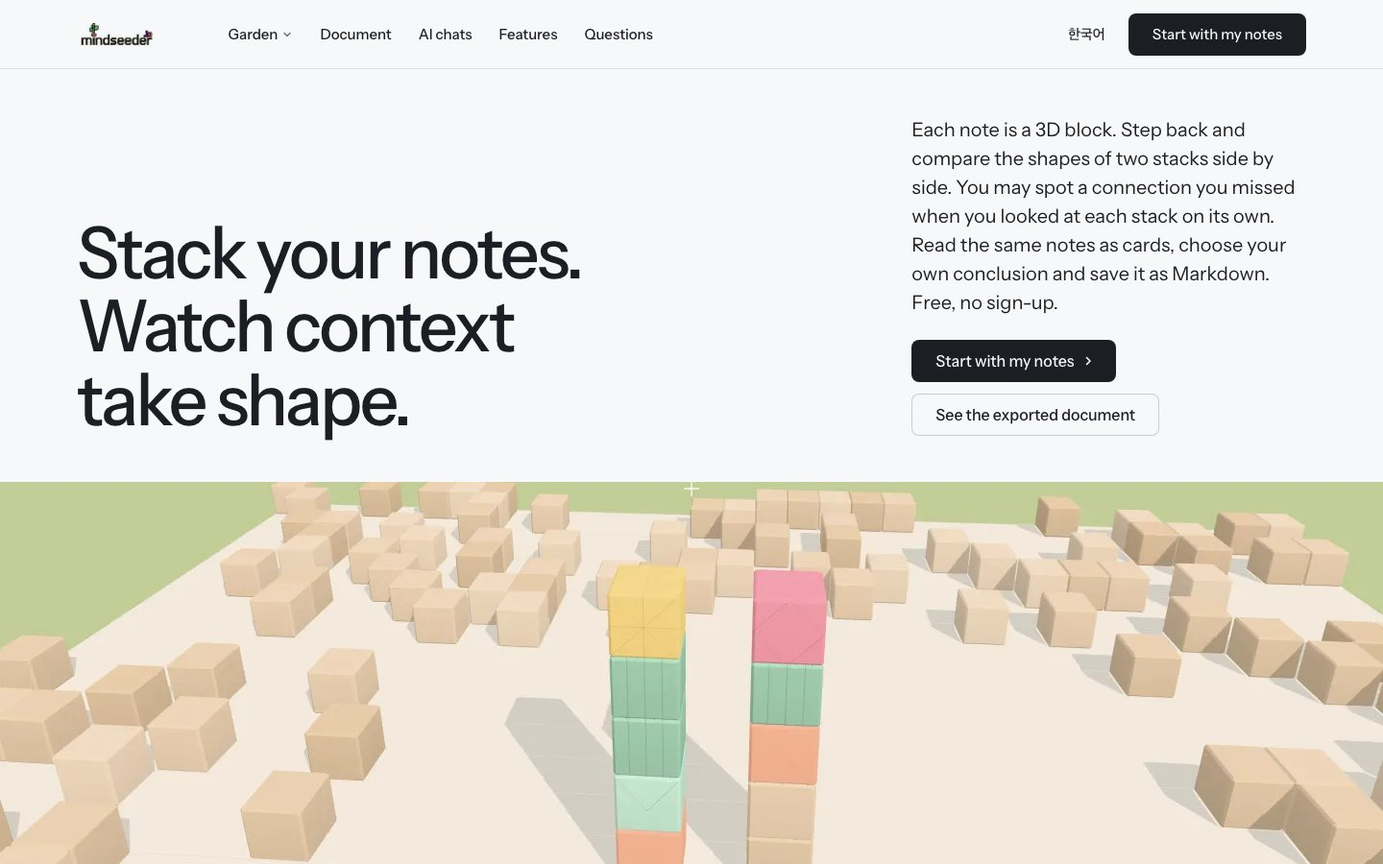
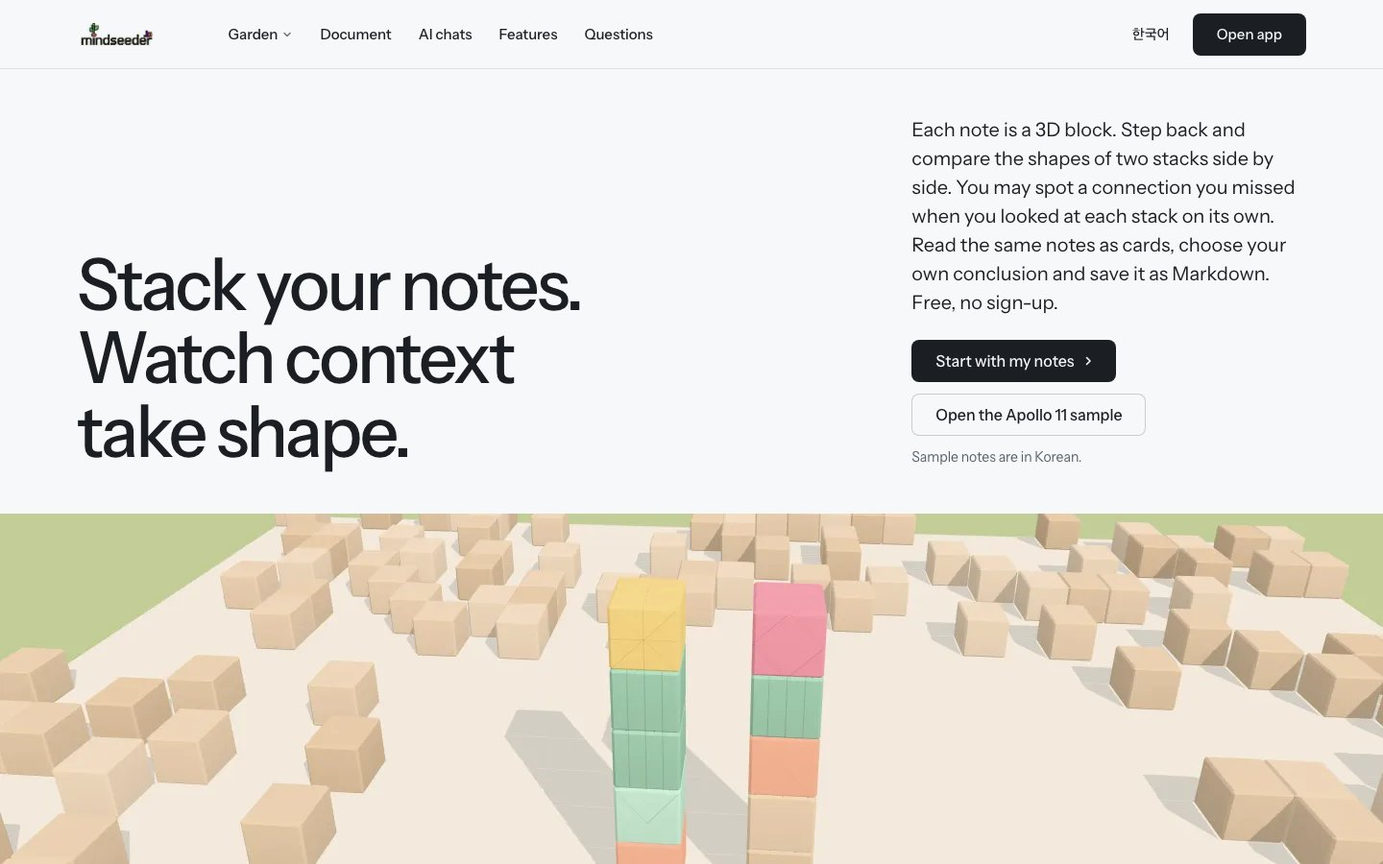
feat: clearer way into the app (user 11/21 persona review) — header button says Open app, the hero's second button opens the Apollo 11 sample, the 3D garden menu card opens the app instead of jumping to the top, every app link carries the page language (?lang=) and keeps ms_internal for internal che

diff --git a/ko/index.html b/ko/index.html
@@ -159,19 +159,19 @@
         <a class="nav__link" href="#garden">정원 <svg class="chev" viewBox="0 0 12 12" aria-hidden="true"><path d="M3 4.5l3 3 3-3" fill="none" stroke="currentColor" stroke-width="1.5" stroke-linecap="round" stroke-linejoin="round"/></svg></a>
         <div class="nav__menu">
           <div class="wrap grid">
-            <a class="menu-card span-4" href="#top">
+            <a class="menu-card span-4" href="https://app.mindseeder.io/?sample=apollo11-1202&lang=ko" data-app-link>
               <div class="panel"><img class="frame__img" src="../img/garden-3d-1440.webp" alt="" loading="lazy"></div>
-              <span class="t-card">3D 정원</span>
+              <span class="t-card">앱에서 3D 정원 보기</span>
               <span class="t-small muted">나무로 쌓인 노트 사이를 걸어 다닙니다</span>
             </a>
             <a class="menu-card span-4" href="#garden">
               <div class="panel"><img class="frame__img" src="../img/office-trees-ko.webp" alt="" loading="lazy" style="object-position: 0 50%"></div>
-              <span class="t-card">Office 보기</span>
+              <span class="t-card">카드 보기 소개</span>
               <span class="t-small muted">같은 노트를 나무별 카드로 읽습니다</span>
             </a>
             <a class="menu-card span-4" href="#features">
               <div class="panel"><img class="frame__img" src="../img/basket-ko.webp" alt="" loading="lazy" style="object-position: 50% 60%"></div>
-              <span class="t-card">수확 바구니</span>
+              <span class="t-card">수확 바구니 소개</span>
               <span class="t-small muted">결론을 모아 문서로 내보냅니다</span>
             </a>
           </div>
@@ -184,7 +184,7 @@
     </nav>
     <div class="nav__actions">
       <a class="nav__link" href="../" hreflang="en" lang="en" data-lang-switch>English</a>
-      <a class="btn btn--primary" href="https://app.mindseeder.io/" data-app-link>내 메모로 시작하기</a>
+      <a class="btn btn--primary" href="https://app.mindseeder.io/?lang=ko" data-app-link>앱 열기</a>
     </div>
     <button class="nav__toggle" type="button" aria-expanded="false" aria-label="메뉴">
       <svg width="18" height="18" viewBox="0 0 18 18" aria-hidden="true"><path d="M2 5h14M2 13h14" stroke="currentColor" stroke-width="1.6" stroke-linecap="round"/></svg>
@@ -199,7 +199,7 @@
           <h1 id="hero-h">노트를 쌓으면 맥락이 보입니다</h1>
           <p class="hero__lead">노트 한 장이 3D 블록 하나입니다. 한 걸음 물러서서 두 탑의 모양을 함께 보면, 따로 볼 때 놓쳤던 연결이 눈에 들어오기도 합니다. 같은 노트를 카드로도 읽고, 결론은 직접 골라 Markdown으로 저장합니다. 무료이고, 가입 없이 시작합니다.</p>
         </div>
-        <div class="btn-row"><a class="btn btn--primary" href="https://app.mindseeder.io/" data-app-link>내 메모로 시작하기<svg class="m-arrow" viewBox="0 0 12 12" aria-hidden="true"><path class="m-arrow__stem" d="M1 6h8"/><path class="m-arrow__head" d="M4.5 2.5 8 6l-3.5 3.5"/></svg></a><a class="btn btn--secondary" href="#document">내보낸 문서 보기</a></div>
+        <div class="btn-row"><a class="btn btn--primary" href="https://app.mindseeder.io/?lang=ko" data-app-link>내 메모로 시작하기<svg class="m-arrow" viewBox="0 0 12 12" aria-hidden="true"><path class="m-arrow__stem" d="M1 6h8"/><path class="m-arrow__head" d="M4.5 2.5 8 6l-3.5 3.5"/></svg></a><a class="btn btn--secondary" href="https://app.mindseeder.io/?sample=apollo11-1202&lang=ko" data-app-link>아폴로 11 샘플 열기</a></div>
       </div>
       <div class="hero__stage">
         <img src="../img/garden-3d-1440.webp" srcset="../img/garden-3d-1440.webp 1440w, ../img/garden-3d-2880.webp 2880w" sizes="(max-width: 639px) 930px, 100vw" width="1440" height="590" alt="마인드시더 3D 정원: 모래색 지형 블록 사이에 색 노트 블록이 쌓인 나무 두 그루와, 그 앞의 분홍색 열매 블록" fetchpriority="high" data-source="client" data-subject="mindseeder 3D garden screenshot">
@@ -416,7 +416,7 @@
         <h2 id="close-h">가지고 있는 메모부터 심어 보세요</h2>
         <p>가입 없이 시작합니다. 동기화하기 전까지 노트는 이 브라우저에 있습니다.</p>
       </div>
-      <a class="btn btn--primary btn--xl btn--wide" href="https://app.mindseeder.io/" data-app-link>내 메모로 시작하기<svg class="m-arrow" viewBox="0 0 12 12" aria-hidden="true"><path class="m-arrow__stem" d="M1 6h8"/><path class="m-arrow__head" d="M4.5 2.5 8 6l-3.5 3.5"/></svg></a>
+      <a class="btn btn--primary btn--xl btn--wide" href="https://app.mindseeder.io/?lang=ko" data-app-link>내 메모로 시작하기<svg class="m-arrow" viewBox="0 0 12 12" aria-hidden="true"><path class="m-arrow__stem" d="M1 6h8"/><path class="m-arrow__head" d="M4.5 2.5 8 6l-3.5 3.5"/></svg></a>
     </div>
     <div class="closing__links">
       <div class="grid">
@@ -440,7 +440,7 @@
   (function () {
     try {
       var q = new URLSearchParams(location.search), keep = new URLSearchParams();
-      q.forEach(function (v, k) { if (/^utm_(source|medium|campaign)$/.test(k)) keep.set(k, v); });
+      q.forEach(function (v, k) { if (/^utm_(source|medium|campaign)$/.test(k) || k === 'ms_internal') keep.set(k, v); });
       if (![...keep.keys()].length) return;
       document.querySelectorAll('a[data-app-link]').forEach(function (a) { var u = new URL(a.href); keep.forEach(function (v, k) { u.searchParams.set(k, v); }); a.href = u.toString(); });
     } catch (e) {}

diff --git a/index.html b/index.html
@@ -159,19 +159,19 @@
         <a class="nav__link" href="#garden">Garden <svg class="chev" viewBox="0 0 12 12" aria-hidden="true"><path d="M3 4.5l3 3 3-3" fill="none" stroke="currentColor" stroke-width="1.5" stroke-linecap="round" stroke-linejoin="round"/></svg></a>
         <div class="nav__menu">
           <div class="wrap grid">
-            <a class="menu-card span-4" href="#top">
+            <a class="menu-card span-4" href="https://app.mindseeder.io/?sample=apollo11-1202&lang=en" data-app-link>
               <div class="panel"><img class="frame__img" src="img/garden-3d-1440.webp" alt="" loading="lazy"></div>
-              <span class="t-card">3D garden</span>
+              <span class="t-card">Explore a 3D garden in the app</span>
               <span class="t-small muted">Walk among your notes, stacked as trees</span>
             </a>
             <a class="menu-card span-4" href="#garden">
               <div class="panel"><img class="frame__img" src="img/office-trees-en.webp" alt="" loading="lazy" style="object-position: 0 50%"></div>
-              <span class="t-card">Office view</span>
+              <span class="t-card">About card view</span>
               <span class="t-small muted">The same notes as cards, tree by tree</span>
             </a>
             <a class="menu-card span-4" href="#features">
               <div class="panel"><img class="frame__img" src="img/basket-en.webp" alt="" loading="lazy" style="object-position: 50% 60%"></div>
-              <span class="t-card">Harvest basket</span>
+              <span class="t-card">About the harvest basket</span>
               <span class="t-small muted">Collect conclusions and export them</span>
             </a>
           </div>
@@ -184,7 +184,7 @@
     </nav>
     <div class="nav__actions">
       <a class="nav__link" href="ko/" hreflang="ko" lang="ko" data-lang-switch>한국어</a>
-      <a class="btn btn--primary" href="https://app.mindseeder.io/" data-app-link>Start with my notes</a>
+      <a class="btn btn--primary" href="https://app.mindseeder.io/?lang=en" data-app-link>Open app</a>
     </div>
     <button class="nav__toggle" type="button" aria-expanded="false" aria-label="Menu">
       <svg width="18" height="18" viewBox="0 0 18 18" aria-hidden="true"><path d="M2 5h14M2 13h14" stroke="currentColor" stroke-width="1.6" stroke-linecap="round"/></svg>
@@ -199,7 +199,7 @@
           <h1 id="hero-h">Stack your notes. Watch context take shape.</h1>
           <p class="hero__lead">Each note is a 3D block. Step back and compare the shapes of two stacks side by side. You may spot a connection you missed when you looked at each stack on its own. Read the same notes as cards, choose your own conclusion and save it as Markdown. Free, no sign-up.</p>
         </div>
-        <div class="btn-row"><a class="btn btn--primary" href="https://app.mindseeder.io/" data-app-link>Start with my notes<svg class="m-arrow" viewBox="0 0 12 12" aria-hidden="true"><path class="m-arrow__stem" d="M1 6h8"/><path class="m-arrow__head" d="M4.5 2.5 8 6l-3.5 3.5"/></svg></a><a class="btn btn--secondary" href="#document">See the exported document</a></div>
+        <div class="btn-row"><a class="btn btn--primary" href="https://app.mindseeder.io/?lang=en" data-app-link>Start with my notes<svg class="m-arrow" viewBox="0 0 12 12" aria-hidden="true"><path class="m-arrow__stem" d="M1 6h8"/><path class="m-arrow__head" d="M4.5 2.5 8 6l-3.5 3.5"/></svg></a><a class="btn btn--secondary" href="https://app.mindseeder.io/?sample=apollo11-1202&lang=en" data-app-link>Open the Apollo 11 sample</a><p class="t-small muted" style="flex-basis: 100%; margin: 0">Sample notes are in Korean.</p></div>
       </div>
       <div class="hero__stage">
         <img src="img/garden-3d-1440.webp" srcset="img/garden-3d-1440.webp 1440w, img/garden-3d-2880.webp 2880w" sizes="(max-width: 639px) 930px, 100vw" width="1440" height="590" alt="The mindseeder 3D garden: two stacked trees of coloured note blocks among sand-coloured terrain blocks, with a pink fruit block in front of them" fetchpriority="high" data-source="client" data-subject="mindseeder 3D garden screenshot">
@@ -416,7 +416,7 @@
         <h2 id="close-h">Start with notes you already have</h2>
         <p>No sign-up. Notes stay in this browser until you sync.</p>
       </div>
-      <a class="btn btn--primary btn--xl btn--wide" href="https://app.mindseeder.io/" data-app-link>Start with my notes<svg class="m-arrow" viewBox="0 0 12 12" aria-hidden="true"><path class="m-arrow__stem" d="M1 6h8"/><path class="m-arrow__head" d="M4.5 2.5 8 6l-3.5 3.5"/></svg></a>
+      <a class="btn btn--primary btn--xl btn--wide" href="https://app.mindseeder.io/?lang=en" data-app-link>Start with my notes<svg class="m-arrow" viewBox="0 0 12 12" aria-hidden="true"><path class="m-arrow__stem" d="M1 6h8"/><path class="m-arrow__head" d="M4.5 2.5 8 6l-3.5 3.5"/></svg></a>
     </div>
     <div class="closing__links">
       <div class="grid">
@@ -440,7 +440,7 @@
   (function () {
     try {
       var q = new URLSearchParams(location.search), keep = new URLSearchParams();
-      q.forEach(function (v, k) { if (/^utm_(source|medium|campaign)$/.test(k)) keep.set(k, v); });
+      q.forEach(function (v, k) { if (/^utm_(source|medium|campaign)$/.test(k) || k === 'ms_internal') keep.set(k, v); });
       if (![...keep.keys()].length) return;
       document.querySelectorAll('a[data-app-link]').forEach(function (a) { var u = new URL(a.href); keep.forEach(function (v, k) { u.searchParams.set(k, v); }); a.href = u.toString(); });
     } catch (e) {}

diff --git a/src/page.html b/src/page.html
@@ -159,7 +159,7 @@
         <a class="nav__link" href="#garden">{{nav_garden}} <svg class="chev" viewBox="0 0 12 12" aria-hidden="true"><path d="M3 4.5l3 3 3-3" fill="none" stroke="currentColor" stroke-width="1.5" stroke-linecap="round" stroke-linejoin="round"/></svg></a>
         <div class="nav__menu">
           <div class="wrap grid">
-            <a class="menu-card span-4" href="#top">
+            <a class="menu-card span-4" href="{{app_sample_url}}" data-app-link>
               <div class="panel"><img class="frame__img" src="{{root}}img/garden-3d-1440.webp" alt="" loading="lazy"></div>
               <span class="t-card">{{mc1_t}}</span>
               <span class="t-small muted">{{mc1_l}}</span>
@@ -184,7 +184,7 @@
     </nav>
     <div class="nav__actions">
       <a class="nav__link" href="{{other_href}}" hreflang="{{other_lang}}" lang="{{other_lang}}" data-lang-switch>{{other_label}}</a>
-      <a class="btn btn--primary" href="{{app_url}}" data-app-link>{{cta}}</a>
+      <a class="btn btn--primary" href="{{app_url}}" data-app-link>{{cta_nav}}</a>
     </div>
     <button class="nav__toggle" type="button" aria-expanded="false" aria-label="{{menu_label}}">
       <svg width="18" height="18" viewBox="0 0 18 18" aria-hidden="true"><path d="M2 5h14M2 13h14" stroke="currentColor" stroke-width="1.6" stroke-linecap="round"/></svg>
@@ -199,7 +199,7 @@
           <h1 id="hero-h">{{h1}}</h1>
           <p class="hero__lead">{{lead}}</p>
         </div>
-        <div class="btn-row"><a class="btn btn--primary" href="{{app_url}}" data-app-link>{{cta}}<svg class="m-arrow" viewBox="0 0 12 12" aria-hidden="true"><path class="m-arrow__stem" d="M1 6h8"/><path class="m-arrow__head" d="M4.5 2.5 8 6l-3.5 3.5"/></svg></a><a class="btn btn--secondary" href="#document">{{cta2}}</a></div>
+        <div class="btn-row"><a class="btn btn--primary" href="{{app_url}}" data-app-link>{{cta}}<svg class="m-arrow" viewBox="0 0 12 12" aria-hidden="true"><path class="m-arrow__stem" d="M1 6h8"/><path class="m-arrow__head" d="M4.5 2.5 8 6l-3.5 3.5"/></svg></a><a class="btn btn--secondary" href="{{app_sample_url}}" data-app-link>{{cta_sample}}</a>{{cta_sample_note_html}}</div>
       </div>
       <div class="hero__stage">
         <img src="{{root}}img/garden-3d-1440.webp" srcset="{{root}}img/garden-3d-1440.webp 1440w, {{root}}img/garden-3d-2880.webp 2880w" sizes="(max-width: 639px) 930px, 100vw" width="1440" height="590" alt="{{hero_alt}}" fetchpriority="high" data-source="client" data-subject="mindseeder 3D garden screenshot">
@@ -423,7 +423,7 @@
   (function () {
     try {
       var q = new URLSearchParams(location.search), keep = new URLSearchParams();
-      q.forEach(function (v, k) { if (/^utm_(source|medium|campaign)$/.test(k)) keep.set(k, v); });
+      q.forEach(function (v, k) { if (/^utm_(source|medium|campaign)$/.test(k) || k === 'ms_internal') keep.set(k, v); });
       if (![...keep.keys()].length) return;
       document.querySelectorAll('a[data-app-link]').forEach(function (a) { var u = new URL(a.href); keep.forEach(function (v, k) { u.searchParams.set(k, v); }); a.href = u.toString(); });
     } catch (e) {}

diff --git a/gardens/hokusai/index.html b/gardens/hokusai/index.html
@@ -143,7 +143,7 @@ footer.ed-foot a { color: inherit; }
     </nav>
     <div class="nav__actions">
       <a class="nav__link" href="../../ko/gardens/hokusai/" hreflang="ko" lang="ko" data-lang-switch>한국어</a>
-      <a class="btn btn--primary" href="https://app.mindseeder.io/?sample=hokusai-fuji&amp;utm_source=mindseeder.io&amp;utm_medium=edition&amp;utm_campaign=hokusai-1" data-app-link>Open this garden</a>
+      <a class="btn btn--primary" href="https://app.mindseeder.io/?sample=hokusai-fuji&amp;lang=en&amp;utm_source=mindseeder.io&amp;utm_medium=edition&amp;utm_campaign=hokusai-1" data-app-link>Open this garden</a>
     </div>
     <button class="nav__toggle" type="button" aria-expanded="false" aria-label="Menu">
       <svg width="18" height="18" viewBox="0 0 18 18" aria-hidden="true"><path d="M2 5h14M2 13h14" stroke="currentColor" stroke-width="1.6" stroke-linecap="round"/></svg>
@@ -261,7 +261,7 @@ footer.ed-foot a { color: inherit; }
           <p class="big">Move between the two trees yourself.</p>
           <p>No account needed. On a first visit, choose ‘Start on this device without an account’, then ‘Open’ in the sample window. The notes are in Korean.</p>
         </div>
-        <a class="btn btn--primary" href="https://app.mindseeder.io/?sample=hokusai-fuji&amp;utm_source=mindseeder.io&amp;utm_medium=edition&amp;utm_campaign=hokusai-1" data-app-link>Open this garden in the app</a>
+        <a class="btn btn--primary" href="https://app.mindseeder.io/?sample=hokusai-fuji&amp;lang=en&amp;utm_source=mindseeder.io&amp;utm_medium=edition&amp;utm_campaign=hokusai-1" data-app-link>Open this garden in the app</a>
       </div>
     </section>
 
@@ -285,7 +285,7 @@ footer.ed-foot a { color: inherit; }
 
     <section aria-labelledby="next-h">
       <h2 id="next-h">Read next</h2>
-      <a class="next" href="https://app.mindseeder.io/?sample=snow-cholera&amp;utm_source=mindseeder.io&amp;utm_medium=edition&amp;utm_campaign=hokusai-1" data-app-link>
+      <a class="next" href="https://app.mindseeder.io/?sample=snow-cholera&amp;lang=en&amp;utm_source=mindseeder.io&amp;utm_medium=edition&amp;utm_campaign=hokusai-1" data-app-link>
         <span class="label">What you miss when you only look at where things are</span>
         <h3>John Snow — the pump handle and two water companies</h3>
         <p>With Hokusai, we looked at where the mountain sits in the picture. In John Snow&#x27;s 1855 record, you first see where deaths gathered around a pump in Soho, then open a different relation: which water supply split the houses on the same streets. The notes are in Korean.</p>

diff --git a/ko/gardens/hokusai/index.html b/ko/gardens/hokusai/index.html
@@ -143,7 +143,7 @@ footer.ed-foot a { color: inherit; }
     </nav>
     <div class="nav__actions">
       <a class="nav__link" href="../../../gardens/hokusai/" hreflang="en" lang="en" data-lang-switch>English</a>
-      <a class="btn btn--primary" href="https://app.mindseeder.io/?sample=hokusai-fuji&amp;utm_source=mindseeder.io&amp;utm_medium=edition&amp;utm_campaign=hokusai-1" data-app-link>이 정원 열기</a>
+      <a class="btn btn--primary" href="https://app.mindseeder.io/?sample=hokusai-fuji&amp;lang=ko&amp;utm_source=mindseeder.io&amp;utm_medium=edition&amp;utm_campaign=hokusai-1" data-app-link>이 정원 열기</a>
     </div>
     <button class="nav__toggle" type="button" aria-expanded="false" aria-label="메뉴">
       <svg width="18" height="18" viewBox="0 0 18 18" aria-hidden="true"><path d="M2 5h14M2 13h14" stroke="currentColor" stroke-width="1.6" stroke-linecap="round"/></svg>
@@ -261,7 +261,7 @@ footer.ed-foot a { color: inherit; }
           <p class="big">두 나무 사이를 직접 오가 보세요.</p>
           <p>가입하지 않아도 됩니다. 처음이면 ‘가입 없이 이 기기에서 시작’을, 이어서 샘플 창의 ‘열기’를 누르세요.</p>
         </div>
-        <a class="btn btn--primary" href="https://app.mindseeder.io/?sample=hokusai-fuji&amp;utm_source=mindseeder.io&amp;utm_medium=edition&amp;utm_campaign=hokusai-1" data-app-link>앱에서 이 정원 열기</a>
+        <a class="btn btn--primary" href="https://app.mindseeder.io/?sample=hokusai-fuji&amp;lang=ko&amp;utm_source=mindseeder.io&amp;utm_medium=edition&amp;utm_campaign=hokusai-1" data-app-link>앱에서 이 정원 열기</a>
       </div>
     </section>
 
@@ -285,7 +285,7 @@ footer.ed-foot a { color: inherit; }
 
     <section aria-labelledby="next-h">
       <h2 id="next-h">다음 읽기</h2>
-      <a class="next" href="https://app.mindseeder.io/?sample=snow-cholera&amp;utm_source=mindseeder.io&amp;utm_medium=edition&amp;utm_campaign=hokusai-1" data-app-link>
+      <a class="next" href="https://app.mindseeder.io/?sample=snow-cholera&amp;lang=ko&amp;utm_source=mindseeder.io&amp;utm_medium=edition&amp;utm_campaign=hokusai-1" data-app-link>
         <span class="label">장소만 보면 놓치는 것</span>
         <h3>존 스노 — 펌프 손잡이와 두 수도회사</h3>
         <p>호쿠사이에서는 산이 화면의 어디에 놓였는지 봤습니다. 존 스노의 1855년 기록에서는 소호의 펌프 둘레에 사망이 모인 자리를 본 뒤, 같은 거리의 집들을 가른 물 공급이라는 다른 관계를 엽니다.</p>

diff --git a/guide/index.html b/guide/index.html
@@ -81,7 +81,7 @@ footer.guide-foot a { color: inherit; }
     </nav>
     <div class="nav__actions">
       <a class="nav__link" href="../ko/guide/" hreflang="ko" lang="ko" data-lang-switch>한국어</a>
-      <a class="btn btn--primary" href="https://app.mindseeder.io/" data-app-link>Start with my notes</a>
+      <a class="btn btn--primary" href="https://app.mindseeder.io/?lang=en" data-app-link>Start with my notes</a>
     </div>
     <button class="nav__toggle" type="button" aria-expanded="false" aria-label="Menu">
       <svg width="18" height="18" viewBox="0 0 18 18" aria-hidden="true"><path d="M2 5h14M2 13h14" stroke="currentColor" stroke-width="1.6" stroke-linecap="round"/></svg>
@@ -255,7 +255,7 @@ Finish with one line confirming that you compared the output against the origina
 
     <div class="close">
       <p>mindseeder exports the conclusion you chose as Markdown.</p>
-      <a class="btn btn--primary" href="https://app.mindseeder.io/" data-app-link>Start with my notes</a>
+      <a class="btn btn--primary" href="https://app.mindseeder.io/?lang=en" data-app-link>Start with my notes</a>
     </div>
   </div></article>
 </main>

diff --git a/ko/guide/index.html b/ko/guide/index.html
@@ -81,7 +81,7 @@ footer.guide-foot a { color: inherit; }
     </nav>
     <div class="nav__actions">
       <a class="nav__link" href="../../guide/" hreflang="en" lang="en" data-lang-switch>English</a>
-      <a class="btn btn--primary" href="https://app.mindseeder.io/" data-app-link>내 메모로 시작하기</a>
+      <a class="btn btn--primary" href="https://app.mindseeder.io/?lang=ko" data-app-link>내 메모로 시작하기</a>
     </div>
     <button class="nav__toggle" type="button" aria-expanded="false" aria-label="메뉴">
       <svg width="18" height="18" viewBox="0 0 18 18" aria-hidden="true"><path d="M2 5h14M2 13h14" stroke="currentColor" stroke-width="1.6" stroke-linecap="round"/></svg>
@@ -255,7 +255,7 @@ footer.guide-foot a { color: inherit; }
 
     <div class="close">
       <p>마인드시더는 고른 결론을 Markdown으로 내보냅니다.</p>
-      <a class="btn btn--primary" href="https://app.mindseeder.io/" data-app-link>내 메모로 시작하기</a>
+      <a class="btn btn--primary" href="https://app.mindseeder.io/?lang=ko" data-app-link>내 메모로 시작하기</a>
     </div>
   </div></article>
 </main>

diff --git a/src/guide.html b/src/guide.html
@@ -81,7 +81,7 @@ footer.guide-foot a { color: inherit; }
     </nav>
     <div class="nav__actions">
       <a class="nav__link" href="{{other_href}}" hreflang="{{other_lang}}" lang="{{other_lang}}" data-lang-switch>{{other_label}}</a>
-      <a class="btn btn--primary" href="https://app.mindseeder.io/" data-app-link>{{cta}}</a>
+      <a class="btn btn--primary" href="{{app_url}}" data-app-link>{{cta}}</a>
     </div>
     <button class="nav__toggle" type="button" aria-expanded="false" aria-label="{{menu_label}}">
       <svg width="18" height="18" viewBox="0 0 18 18" aria-hidden="true"><path d="M2 5h14M2 13h14" stroke="currentColor" stroke-width="1.6" stroke-linecap="round"/></svg>
@@ -124,7 +124,7 @@ footer.guide-foot a { color: inherit; }
 
     <div class="close">
       <p>{{lead_short}}</p>
-      <a class="btn btn--primary" href="https://app.mindseeder.io/" data-app-link>{{cta}}</a>
+      <a class="btn btn--primary" href="{{app_url}}" data-app-link>{{cta}}</a>
     </div>
   </div></article>
 </main>

diff --git a/src/build.py b/src/build.py
@@ -48,7 +48,10 @@ def build(lang: str) -> None:
     ]
     out = TPL
     special = {
-        'canonical': canonical, 'app_url': APP, 'guide_href': 'guide/', 'font_href': FONTS[lang], 'font_extra': ', "Gothic A1"' if lang == 'ko' else '',
+        'canonical': canonical, 'app_url': f'{APP}?lang={lang}', 'guide_href': 'guide/',
+        # 첫 화면 보조 버튼·메뉴 첫 카드: 파일럿 예시(아폴로)로 바로 — 앱은 lang으로 첫 화면 언어를, sample로 그 편을 맨 위에 둔다(사용자 11/21 진입 개선)
+        'app_sample_url': f'{APP}?sample=apollo11-1202&lang={lang}',
+        'cta_sample_note_html': f'<p class="t-small muted" style="flex-basis: 100%; margin: 0">{esc(s["cta_sample_note"])}</p>' if s.get('cta_sample_note') else '', 'font_href': FONTS[lang], 'font_extra': ', "Gothic A1"' if lang == 'ko' else '',
         'rows_html': '\n'.join(rows), 'files_html': '\n'.join(files), 'faq_html': '\n'.join(faq),
         'jsonld': json.dumps(jsonld, ensure_ascii=False).replace('</', '<\\/'),
         'lang_redirect': '',
@@ -87,7 +90,7 @@ def build_guide(lang: str) -> None:
     jsonld = {'@context': 'https://schema.org', '@type': 'HowTo', 'name': s['h1'], 'description': s['description'], 'inLanguage': lang,
               'url': canonical, 'step': [{'@type': 'HowToStep', 'position': i + 1, 'name': n, 'text': t} for i, (n, t) in
                                          enumerate([(s['s1_h'], s['s1']), (s['s2_h'], s['s2']), (s['s3_h'], s['s3']), (s['s4_h'], ' '.join(s['tips']))])]}
-    special = {'canonical': canonical, 'font_href': FONTS[lang], 'font_extra': ', "Gothic A1"' if lang == 'ko' else '',
+    special = {'canonical': canonical, 'app_url': f'{APP}?lang={lang}', 'font_href': FONTS[lang], 'font_extra': ', "Gothic A1"' if lang == 'ko' else '',
                'rows_html': rows, 'prompts_html': '\n'.join(prompts), 'tips_html': tips, 'sources_html': sources,
                'jsonld': json.dumps(jsonld, ensure_ascii=False).replace('</', '<\\/'), 'lead_short': s['lead'].split('. ')[0] + '.' if lang == 'en' else s['lead'].split('. ')[0] + '.'}
     def rep(m):
@@ -109,8 +112,8 @@ def build_edition(lang: str, slug: str) -> None:
     tpl = (ROOT / 'src/edition.html').read_text()
     canonical = 'https://mindseeder.io/' + s['path']
     utm = 'utm_source=mindseeder.io&utm_medium=edition&utm_campaign=' + s.get('campaign', f'{slug}-1')
-    app_href = f'{APP}?sample={s["sample"]}&{utm}'
-    next_href = f'{APP}?sample={s["next_sample"]}&{utm}'
+    app_href = f'{APP}?sample={s["sample"]}&lang={lang}&{utm}'
+    next_href = f'{APP}?sample={s["next_sample"]}&lang={lang}&{utm}'
     picks = '\n'.join(f'          <label><input type="radio" name="first-look" value="{i}">{esc(p)}</label>' for i, p in enumerate(s['picks']))
     do = '\n'.join(f'        <li>{esc(t)}</li>' for t in s['do'])
     sources = '\n'.join(f'        <li>{esc(t)}<span class="links">' + ''.join(f'<a class="link" href="{esc(u)}" rel="noopener">{esc(n)}</a>' for n, u in links) + '</span></li>'
@@ -125,7 +128,7 @@ def build_edition(lang: str, slug: str) -> None:
               'publisher': {'@type': 'Organization', 'name': 'mindseeder', 'url': 'https://mindseeder.io/'},
               'about': [art('Under the Wave off Kanagawa (The Great Wave)', 'https://www.metmuseum.org/art/collection/search/45434', 'ca. 1830–32'),
                         art('South Wind, Clear Sky (Red Fuji)', 'https://www.metmuseum.org/art/collection/search/36490', 'ca. 1830–32')]}
-    special = {'canonical': canonical, 'font_href': FONTS[lang], 'font_extra': ', "Gothic A1"' if lang == 'ko' else '',
+    special = {'canonical': canonical, 'app_url': f'{APP}?lang={lang}', 'font_href': FONTS[lang], 'font_extra': ', "Gothic A1"' if lang == 'ko' else '',
                'app_href': esc(app_href), 'next_href': esc(next_href), 'picks_html': picks, 'do_html': do, 'sources_html': sources,
                'how_html': how, 'meta_html': meta, 'jsonld': json.dumps(jsonld, ensure_ascii=False).replace('</', '<\\/')}
     def rep(m):
